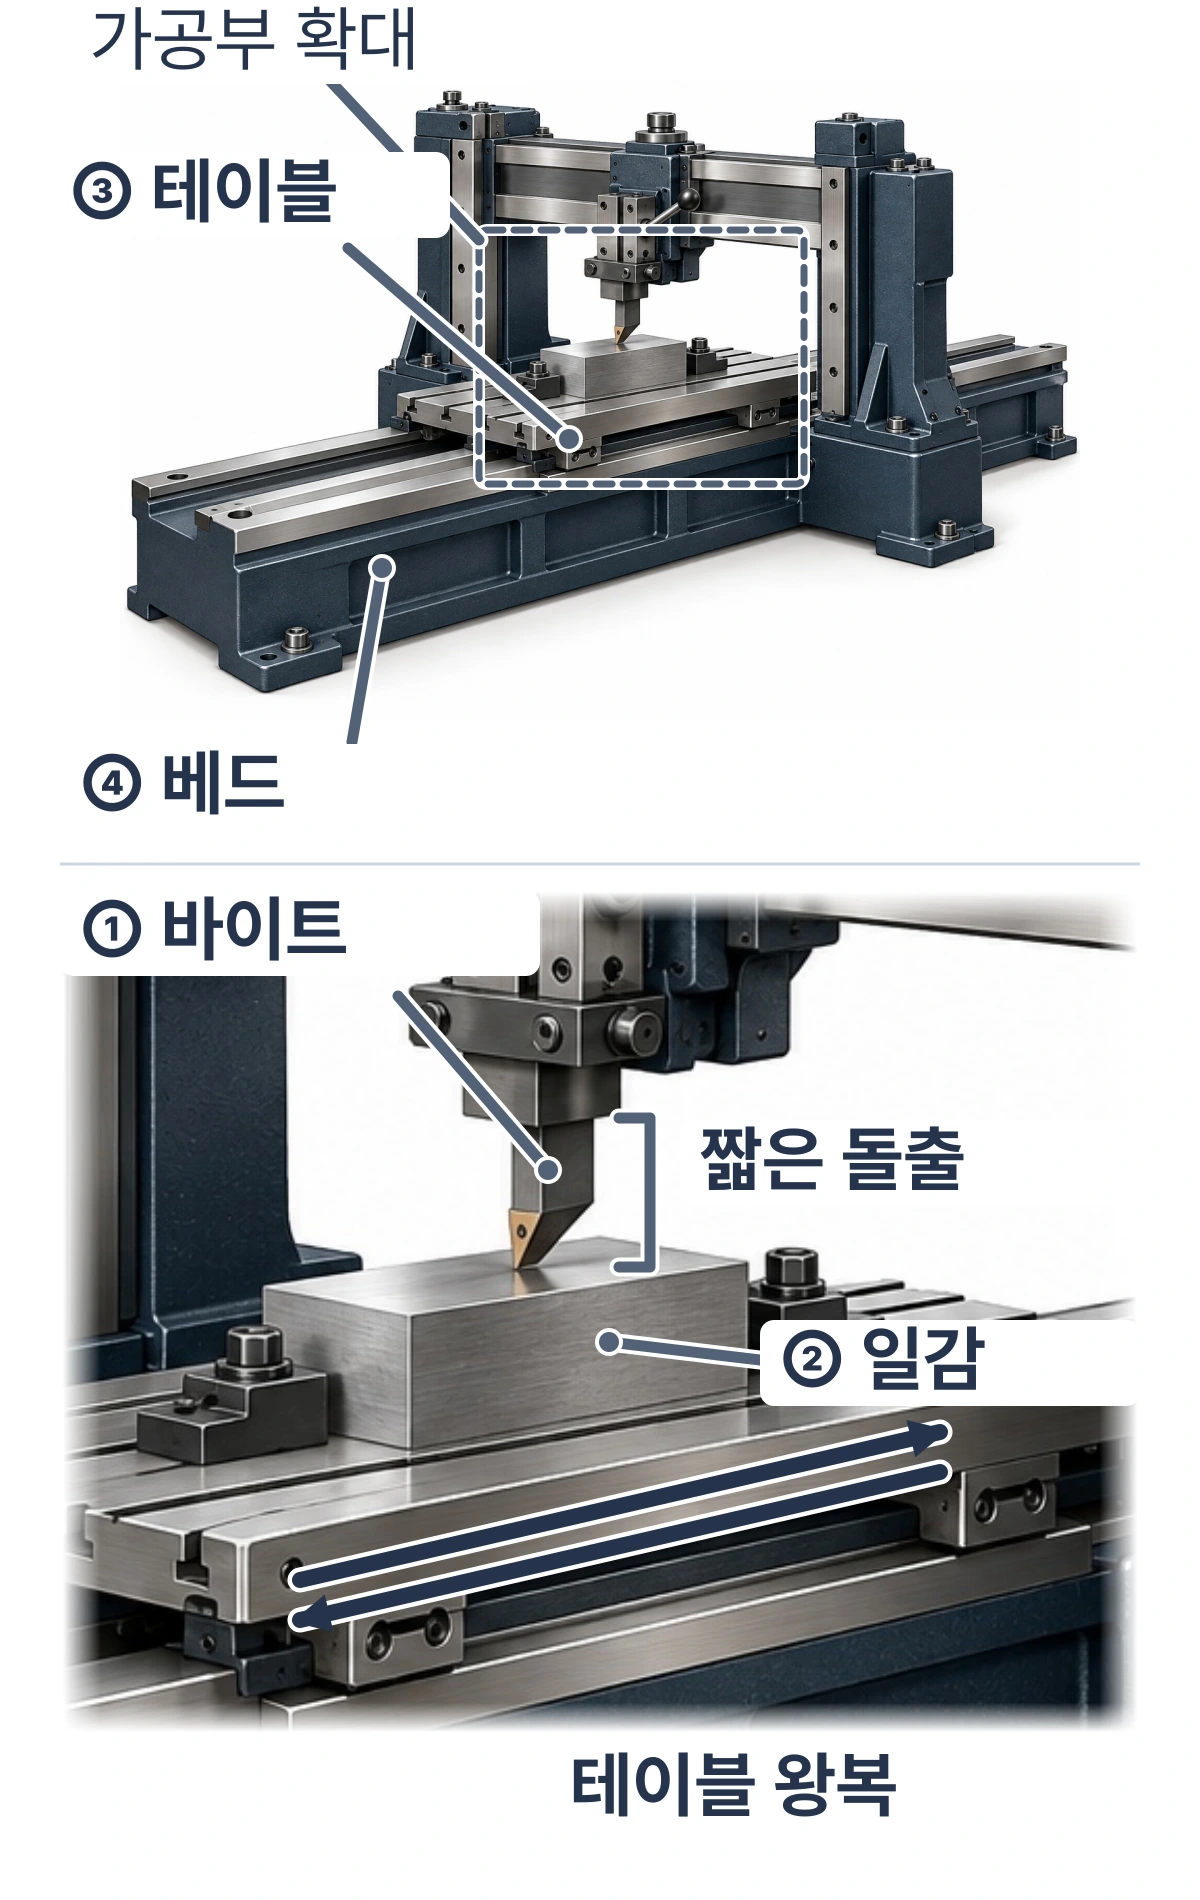
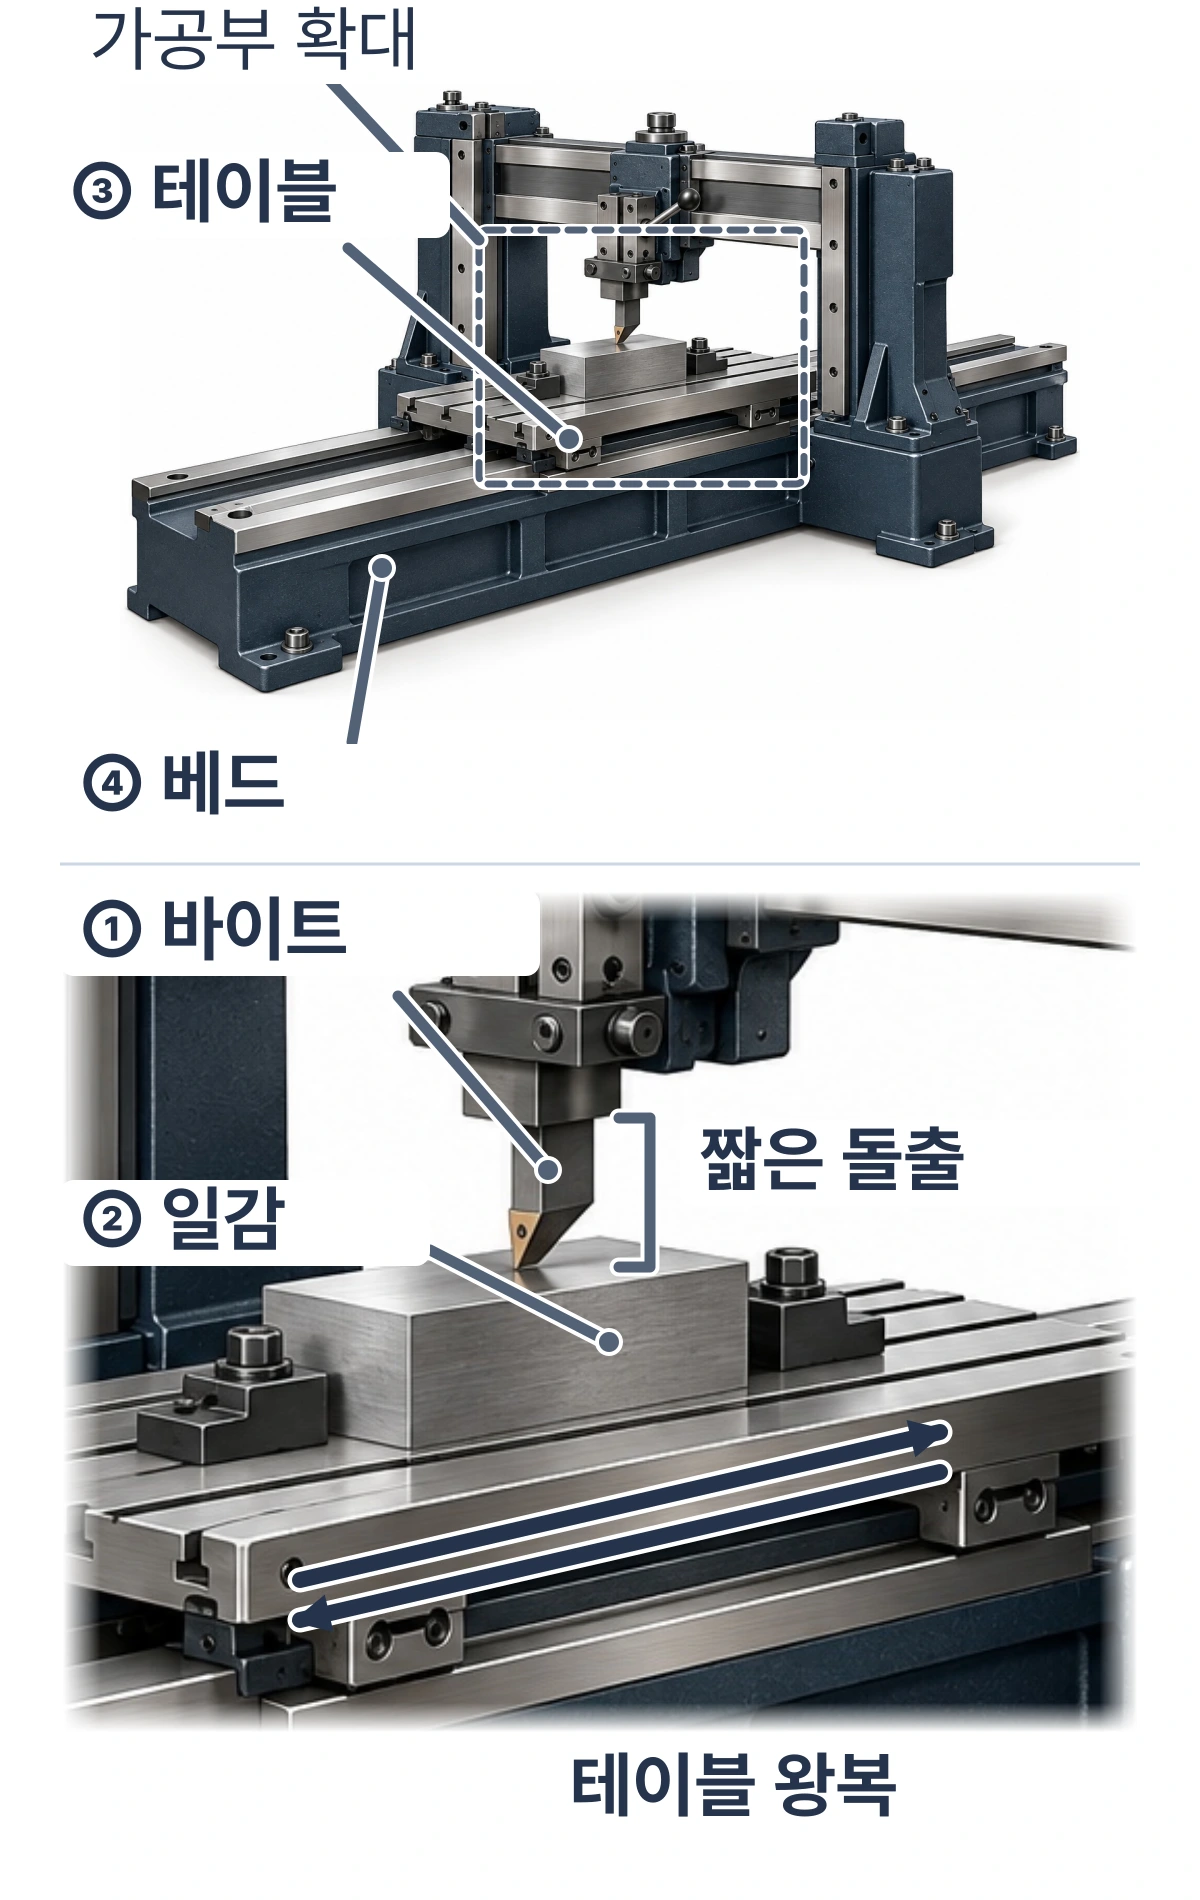
fix: keep both planer clamps visible around workpiece label

Changed region(s): [[0.4317, 0.6832, 0.9558, 0.7453], [0.0308, 0.6211, 0.3083, 0.6832], [0.3392, 0.6521, 0.4317, 0.6832]]

diff --git a/docs/audits/2026-10-04-planer-illustrated-learning/VALIDATION.md b/docs/audits/2026-10-04-planer-illustrated-learning/VALIDATION.md
@@ -12,7 +12,7 @@ Actually read design standard v1.2 §§1–9 and CHAPTER_WRITING_GUIDE.md. Appli
 - Scope caption/alt explicitly omit guards, drive internals and pit. Pit cannot be placed from external geometry; existing pit cover explanation remains. Chip breaker is described in the unchanged body and is not inferred on the generic cutter.
 - Generated bolts, handles and frame details are generic and unverified as particular manufacturer specifications. No dimensions, numerical overhang recommendation or complete safe operating setup claimed.
 - Built-in image_gen base; exact SVG annotation/Sharp renderer retained. Existing website Pretendard Variable font converted locally for rendering; no additional font binary published. Original generated PNG untouched; prompt in generation.md.
-- Public WebP1200×1900 /224948bytes. OriginalJPEG439803bytes. Text72source units (320px image238px→14.28px). Motion16units→3.17px; leaders11units→2.18px. Bottom64 rows RGB minima253/255/253 after extract→PNG→stats.
+- Public WebP1200×1900 /228008bytes. OriginalJPEG439803bytes. Text72source units (320px image238px→14.28px). Motion16units→3.17px; leaders11units→2.18px. Bottom64 rows RGB minima253/255/253 after extract→PNG→stats.
 - Only planer scoped card: left aligned, maximum424px; image390px maximum; caption top24px/sides16px. Other machine figures unchanged.
 
 ## Local checks
